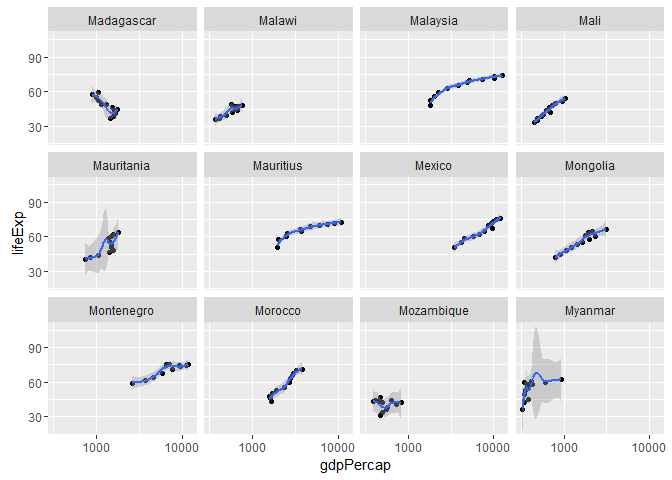
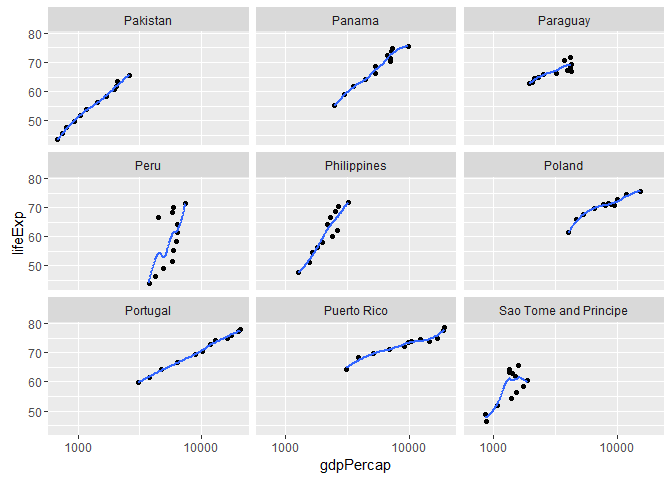
[e] probably final text edits, reflections, and formatting / structuring

diff --git a/hw02_Exploring-Gapminder-with-tidyverse.md b/hw02_Exploring-Gapminder-with-tidyverse.md
@@ -8,8 +8,6 @@ Minder the Gap. The door's are now closing.
 
 Welcome! This should be a fun ride today for you and I. So in this following report we will be exploring the Gapminder dataset...however, I will have no idea what you will end up seeing.
 
-So, get some coffee or tea or any consumable, potable liquid %&gt;% temperature(hot:cold) and let's get started. :D
-
 Why?
 
 ``` r
@@ -19,6 +17,8 @@ library("random")
 That's why. I will be using the *random* package to make this interesting. Let's explore the relationship between life expectancy as a function of GDP per capita. (*You will need internet connection to run some of this code. Especially pertaining to the **random** functions.*)
 
 Initially, let us see what we are working with before any *<sub>CrA</sub>* *Z* *~<sub>~</sub> neSS ~<sub>~</sub>*.
+
+So, get some coffee or tea or any consumable, potable liquid %&gt;% temperature(hot:cold) and let's get started. :D s
 
 ``` r
 str(gapminder)  
@@ -81,13 +81,17 @@ p_hist + geom_histogram(aes(x = gdpPercap),alpha = 0.5, binwidth = 10000)
 With respect to continents? <sub>(</sub> <sub>countries</sub> <sub>would</sub> <sub>be</sub> <sub>crazy</sub> <sub>)</sub>
 
 ``` r
-p_hist + facet_wrap(~ continent) + geom_density(aes(x = lifeExp), alpha = 0.5) 
+p_hist + 
+  facet_wrap(~ continent) + 
+  geom_density(aes(x = lifeExp), alpha = 0.5) 
 ```
 
 ![](hw02_Exploring-Gapminder-with-tidyverse_files/figure-markdown_github/Density%20Plots1-1.png)
 
 ``` r
-p_hist + facet_wrap(~ continent) + geom_density(aes(x = gdpPercap), alpha = 0.5)
+p_hist + 
+  facet_wrap(~ continent) + 
+  geom_density(aes(x = gdpPercap), alpha = 0.5)
 ```
 
 ![](hw02_Exploring-Gapminder-with-tidyverse_files/figure-markdown_github/Density%20Plots2-1.png)
@@ -107,7 +111,9 @@ pt_lvg <- gapminder %>%
 
 #Making plot space
 
-pt_lvg + geom_point(aes(x = gdpPercap, y = lifeExp, colour = continent)) + geom_smooth(aes(x = gdpPercap, y = lifeExp))
+pt_lvg + 
+  geom_point(aes(x = gdpPercap, y = lifeExp, colour = continent)) + 
+  geom_smooth(aes(x = gdpPercap, y = lifeExp))
 ```
 
 ![](hw02_Exploring-Gapminder-with-tidyverse_files/figure-markdown_github/Plot%20L%20v.%20G%20data-1.png)
@@ -119,7 +125,9 @@ pt_lvg + geom_point(aes(x = gdpPercap, y = lifeExp, colour = continent)) + geom_
 Let's plot this on a different scale.
 
 ``` r
-pt_lvg + geom_point(aes(x = log10(gdpPercap), y = log10(lifeExp), colour = continent)) + geom_smooth(aes(x = log10(gdpPercap), y = log10(lifeExp)))
+pt_lvg + 
+  geom_point(aes(x = log10(gdpPercap), y = log10(lifeExp), colour = continent)) + 
+  geom_smooth(aes(x = log10(gdpPercap), y = log10(lifeExp)))
 ```
 
 ![](hw02_Exploring-Gapminder-with-tidyverse_files/figure-markdown_github/Replot-1.png)
@@ -148,7 +156,7 @@ r_p^2 #Coefficent of determination
 
     ## [1] 0.6132023
 
-As seen above, there is some correlation between life expectancy and GDP per capita. Perhaps this is trivial because as GDP per capita increases, it could be said that quality of life also increases and thus, perhaps life expectancy. Although this clearly does not paint the complete picture (R = 0.783, (R<sup>2</sup>) = 0.613) as the other factors will affect both that may or may not affect the other.
+As seen above, there is some correlation between life expectancy and GDP per capita. Perhaps this is trivial because as GDP per capita increases, it could be said that quality of life also increases and thus, perhaps life expectancy. Although this clearly does not paint the complete picture (R = 0.783, R<sup>2</sup> = 0.613) as the other factors will affect both that may or may not affect the other.
 
 Back to business.
 
@@ -162,9 +170,11 @@ print(rand.lett)
 ```
 
     ##      V1 
-    ## [1,] "M"
+    ## [1,] "P"
 
 ``` r
+# Prints random letter
+
 cnm <- grep(
   as.list(rand.lett), 
   as.matrix(country_names[,1]))
@@ -174,24 +184,24 @@ name.list <- country_names[cnm,]
 print(name.list)
 ```
 
-    ## # A tibble: 12 × 1
-    ##       country
-    ##        <fctr>
-    ## 1  Madagascar
-    ## 2      Malawi
-    ## 3    Malaysia
-    ## 4        Mali
-    ## 5  Mauritania
-    ## 6   Mauritius
-    ## 7      Mexico
-    ## 8    Mongolia
-    ## 9  Montenegro
-    ## 10    Morocco
-    ## 11 Mozambique
-    ## 12    Myanmar
+    ## # A tibble: 9 × 1
+    ##                 country
+    ##                  <fctr>
+    ## 1              Pakistan
+    ## 2                Panama
+    ## 3              Paraguay
+    ## 4                  Peru
+    ## 5           Philippines
+    ## 6                Poland
+    ## 7              Portugal
+    ## 8           Puerto Rico
+    ## 9 Sao Tome and Principe
 
 ``` r
-# @ this point, all I have done is made of list of all the unique names of countries in gapminder. I proceed to grab all countries within that list that start with a randomly selected letter. A tibble of said countries is made "name.list". Then the script prints the list.
+# @ this point, all I have done is made of list of all the unique names of countries in gapminder. 
+# I proceed to grab all countries within that list that start with a randomly selected letter. 
+# A tibble of said countries is made "name.list". 
+# Then the script prints the list.
 
 new_gp <- gapminder %>% 
   filter(country %in% c(as.matrix(name.list)))
@@ -202,51 +212,59 @@ new_gp_data <- new_gp %>%
 print(new_gp)
 ```
 
-    ## # A tibble: 144 × 6
-    ##       country continent  year lifeExp      pop gdpPercap
-    ##        <fctr>    <fctr> <int>   <dbl>    <int>     <dbl>
-    ## 1  Madagascar    Africa  1952  36.681  4762912 1443.0117
-    ## 2  Madagascar    Africa  1957  38.865  5181679 1589.2027
-    ## 3  Madagascar    Africa  1962  40.848  5703324 1643.3871
-    ## 4  Madagascar    Africa  1967  42.881  6334556 1634.0473
-    ## 5  Madagascar    Africa  1972  44.851  7082430 1748.5630
-    ## 6  Madagascar    Africa  1977  46.881  8007166 1544.2286
-    ## 7  Madagascar    Africa  1982  48.969  9171477 1302.8787
-    ## 8  Madagascar    Africa  1987  49.350 10568642 1155.4419
-    ## 9  Madagascar    Africa  1992  52.214 12210395 1040.6762
-    ## 10 Madagascar    Africa  1997  54.978 14165114  986.2959
-    ## # ... with 134 more rows
+    ## # A tibble: 108 × 6
+    ##     country continent  year lifeExp       pop gdpPercap
+    ##      <fctr>    <fctr> <int>   <dbl>     <int>     <dbl>
+    ## 1  Pakistan      Asia  1952  43.436  41346560  684.5971
+    ## 2  Pakistan      Asia  1957  45.557  46679944  747.0835
+    ## 3  Pakistan      Asia  1962  47.670  53100671  803.3427
+    ## 4  Pakistan      Asia  1967  49.800  60641899  942.4083
+    ## 5  Pakistan      Asia  1972  51.929  69325921 1049.9390
+    ## 6  Pakistan      Asia  1977  54.043  78152686 1175.9212
+    ## 7  Pakistan      Asia  1982  56.158  91462088 1443.4298
+    ## 8  Pakistan      Asia  1987  58.245 105186881 1704.6866
+    ## 9  Pakistan      Asia  1992  60.838 120065004 1971.8295
+    ## 10 Pakistan      Asia  1997  61.818 135564834 2049.3505
+    ## # ... with 98 more rows
 
 ``` r
 print(new_gp_data)
 ```
 
-    ## # A tibble: 144 × 2
+    ## # A tibble: 108 × 2
     ##    lifeExp gdpPercap
     ##      <dbl>     <dbl>
-    ## 1   36.681 1443.0117
-    ## 2   38.865 1589.2027
-    ## 3   40.848 1643.3871
-    ## 4   42.881 1634.0473
-    ## 5   44.851 1748.5630
-    ## 6   46.881 1544.2286
-    ## 7   48.969 1302.8787
-    ## 8   49.350 1155.4419
-    ## 9   52.214 1040.6762
-    ## 10  54.978  986.2959
-    ## # ... with 134 more rows
+    ## 1   43.436  684.5971
+    ## 2   45.557  747.0835
+    ## 3   47.670  803.3427
+    ## 4   49.800  942.4083
+    ## 5   51.929 1049.9390
+    ## 6   54.043 1175.9212
+    ## 7   56.158 1443.4298
+    ## 8   58.245 1704.6866
+    ## 9   60.838 1971.8295
+    ## 10  61.818 2049.3505
+    ## # ... with 98 more rows
 
 ``` r
-# Here is the good part well, the important one. A new gapminder "new_gp" data set is filtered by all the names in the name.list. New_gp_data is created by selecting for GDP and life expectancy to ease calculations.
+# Here is the good part well, the important one. 
+# A new gapminder "new_gp" data set is filtered by all the names in the name.list. 
+# New_gp_data is created by selecting for GDP and life expectancy to ease calculations.
 ```
 
 Now if you're still here. We have one more thing to do. I hope it's not too crazy.
+
+Note: this will not work if you lack internet connection. Also, it may take some time depending on the performance capabilities of your computer. Sorry for computers with little RAM and/or
 
 ``` r
 p_ngp <- new_gp %>% 
   ggplot()
 
-p_ngp + geom_point(aes(x = gdpPercap, y = lifeExp)) + geom_smooth(aes(x = gdpPercap, y = lifeExp)) + scale_x_log10() + facet_wrap(~ country)
+p_ngp + 
+  geom_point(aes(x = gdpPercap, y = lifeExp)) + 
+  geom_smooth(aes(x = gdpPercap, y = lifeExp), se=F) + 
+  scale_x_log10() + 
+  facet_wrap(~ country, shrink = T)
 ```
 
 ![](hw02_Exploring-Gapminder-with-tidyverse_files/figure-markdown_github/Nice%20plot%20to%20finish%20off.-1.png)
@@ -255,23 +273,34 @@ p_ngp + geom_point(aes(x = gdpPercap, y = lifeExp)) + geom_smooth(aes(x = gdpPer
 r.p <- new_gp_data %>% 
   with(cor(log10(gdpPercap), log10(lifeExp))) 
 
-#Assigning object that is the P.C.C. of lifeExp and GDP
-
-r.p #Pearson's C.C. (P.C.C.)
+r.p 
 ```
 
-    ## [1] 0.8079753
+    ## [1] 0.7678229
 
 ``` r
-r.p^2 #Coefficent of determination
+# Pearson's C.C.
+
+r.p^2 
 ```
 
-    ## [1] 0.652824
+    ## [1] 0.589552
+
+``` r
+# Coefficent of determination
+```
 
 Now if this works as intended, you will have a "unique" letter from print(rand.lett) and list of countries with associated graphs and correlation coffiecients.
 
 If you can handle reading these nearly 200 lines of code, I applaud you. I got tired just typing this all out!
 
-To show that you truly got to this point, please include your print(rand.lett) and correlation coffiecient results in your review of my work.
+To show that you truly got to this point, please include your print(rand.lett) and correlation coffiecient results in your review of my work. -- new edit: now that I think about it, you'd have a run the script yourself to get a new letter. Try it out!
 
 *CHEERS!*
+
+*In the future, I will want to see if I can bin countries by correlation between gdpPercap v. lifeExp*
+
+...reflections...
+-----------------
+
+The most challenging part was making that model work and plot correctly. The most exciting part was scripting that random string to output and subset the list of unique list of countries. Overall, I enjoyed this assignment.
